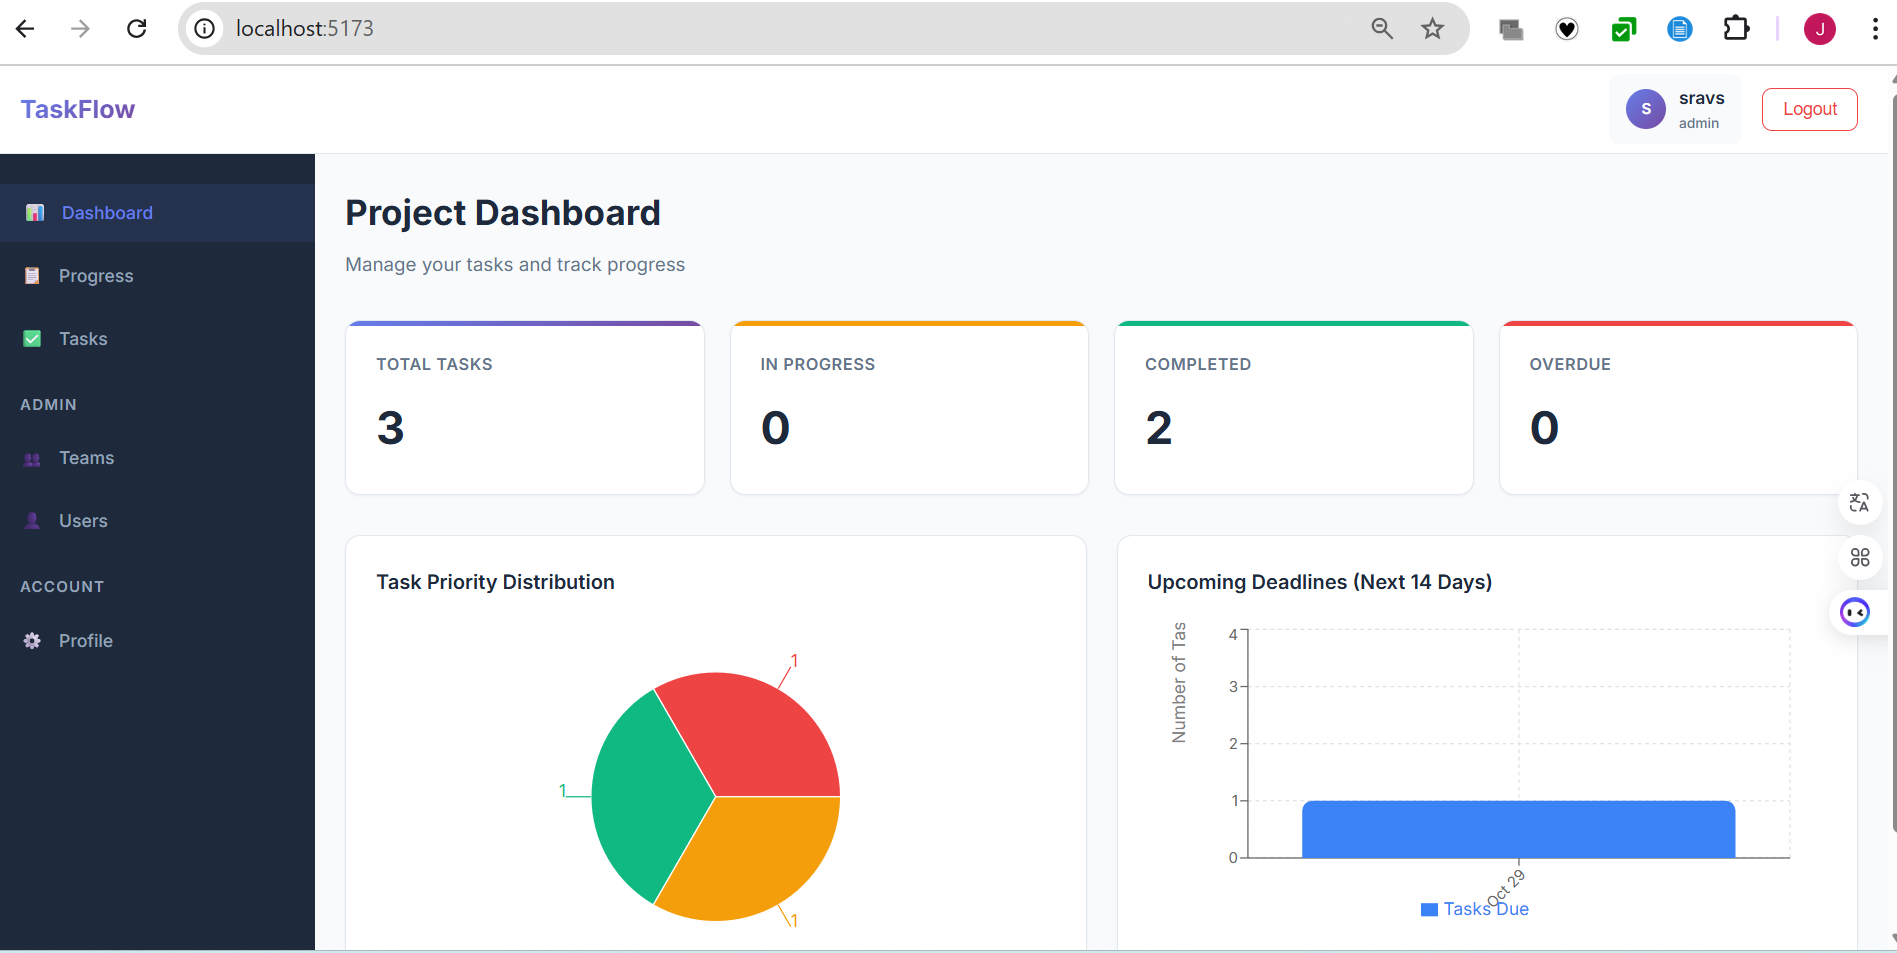
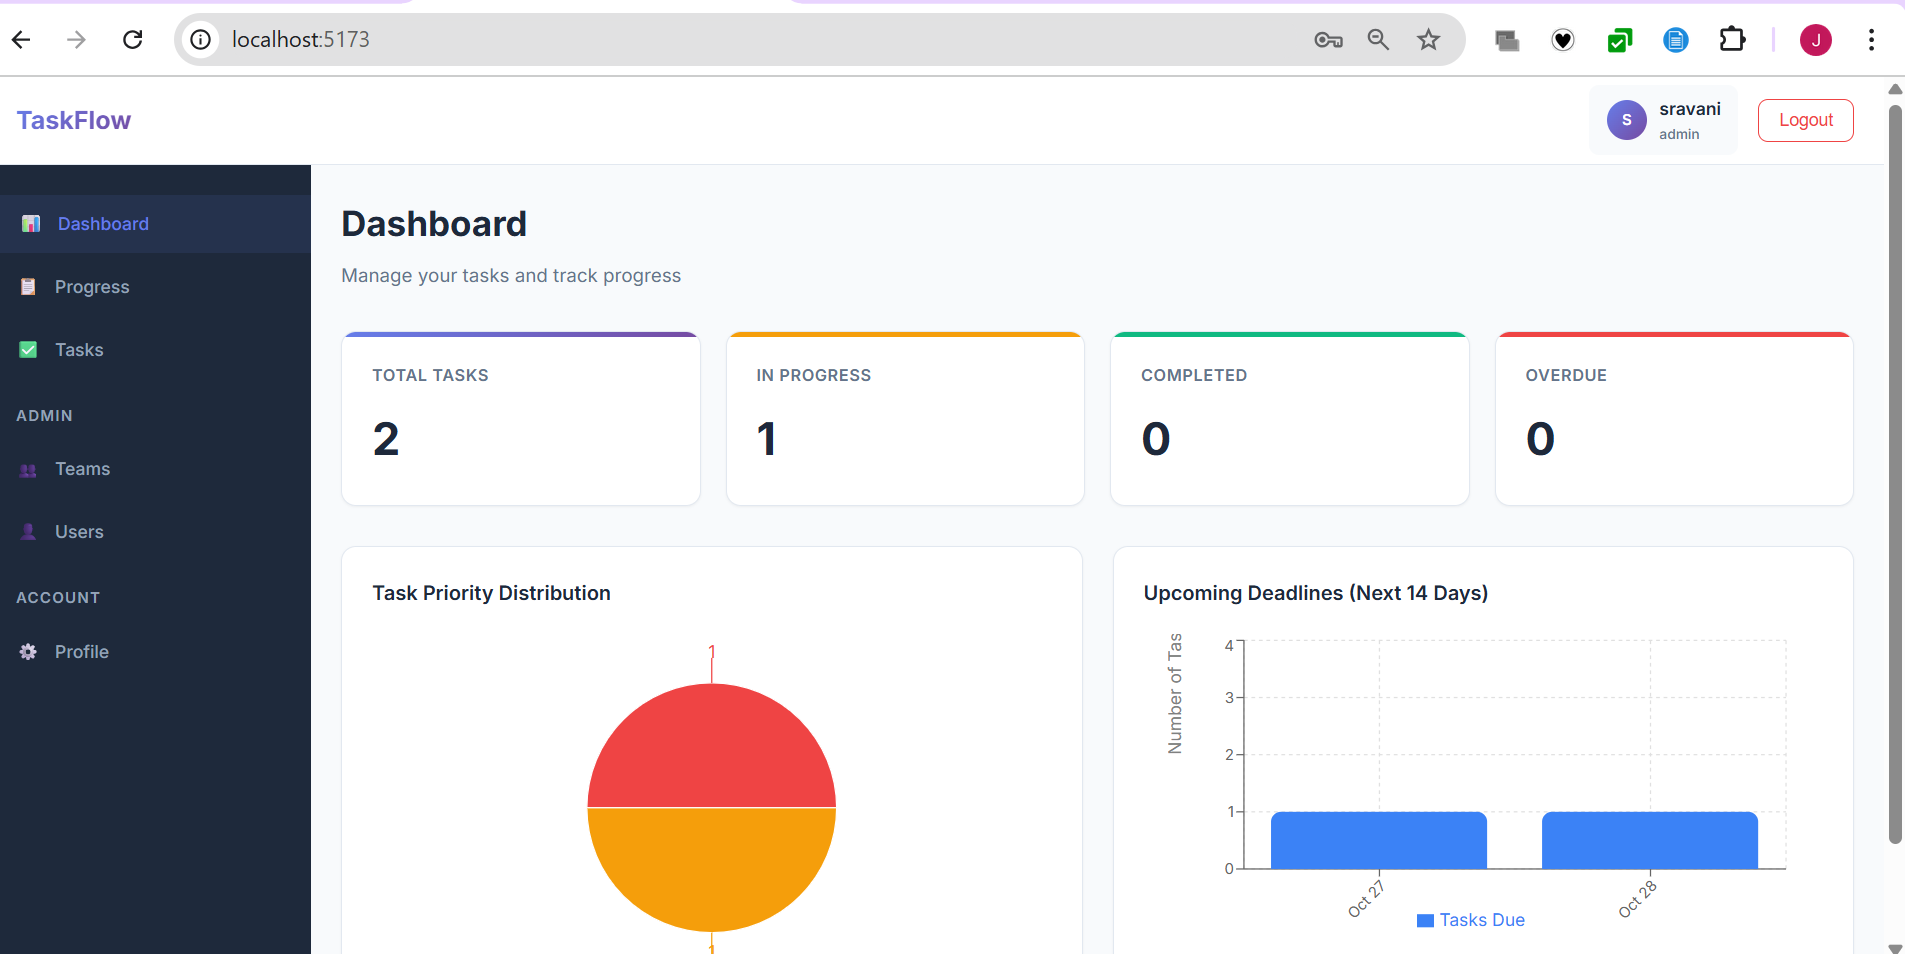
updated dashboard

diff --git a/drishya-frontend/src/pages/Dashboard.jsx b/drishya-frontend/src/pages/Dashboard.jsx
@@ -39,7 +39,7 @@ function Dashboard() {
   return (
     <div className="dashboard-page">
       <div className="page-header">
-        <h1>Project Dashboard</h1>
+        <h1>Dashboard</h1>
         <p>Manage your tasks and track progress</p>
       </div>
       
